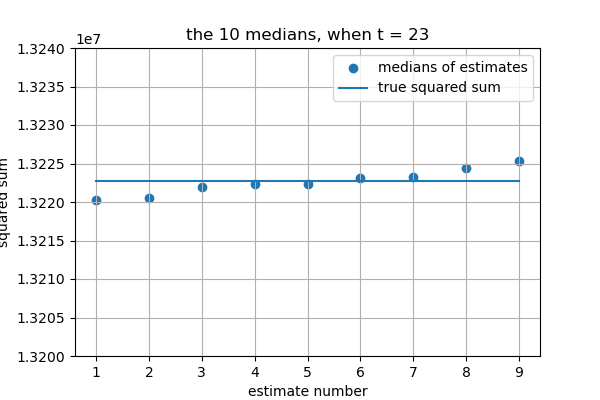
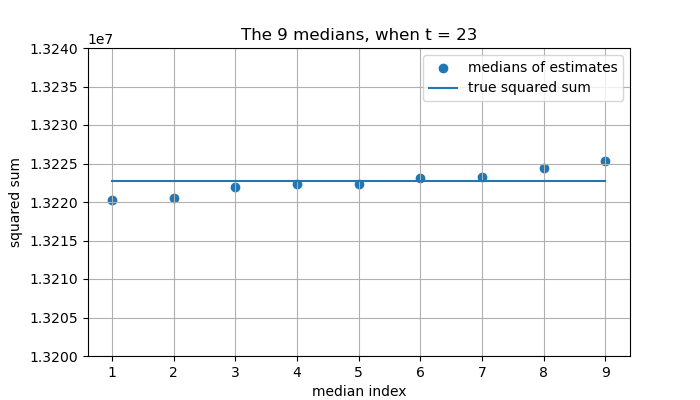
added stats calculations

diff --git a/analysis.py b/analysis.py
@@ -28,12 +28,16 @@ for filenr,file in enumerate(['estimates1.json','estimates2.json','estimates3.js
     for element in array:
         mse += (element-trueSum)**2/array.shape[0]
     print("mse:",mse)
+    print("mean:", np.mean(array))
     print("the variance of the estimator: ",2*trueSum**2/(2**t))
     print("average time in ms: ", np.mean(results['times']))
+    print("true sum:", trueSum)
+    print("S - mean: ", trueSum-np.mean(array))
+
 
 
     #plot params
-    size = (6,4)
+    size = (7,4)
     ymin = [13200000,13190000,13150000]
     ymax = [13240000,13260000,13350000]
     lin = np.linspace(1,array.shape[0],array.shape[0])
@@ -57,9 +61,9 @@ for filenr,file in enumerate(['estimates1.json','estimates2.json','estimates3.js
     A2 = ax2.scatter(lin[0:9],sortedMedians,label='medians of estimates')
     B2, = ax2.plot([lin[0],lin[8]],[trueSum,trueSum], label='true squared sum')
     ax2.legend(handles=[A2,B2])
-    ax2.set_xlabel('estimate number')
+    ax2.set_xlabel('median index')
     ax2.set_ybound(ymin[filenr-1],ymax[filenr-1])
-    title = "the 10 medians, when t = "+str(t)
+    title = "The 9 medians, when t = "+str(t)
     ax2.set_ylabel('squared sum')
     ax2.set_title(title)
     ax2.grid()
